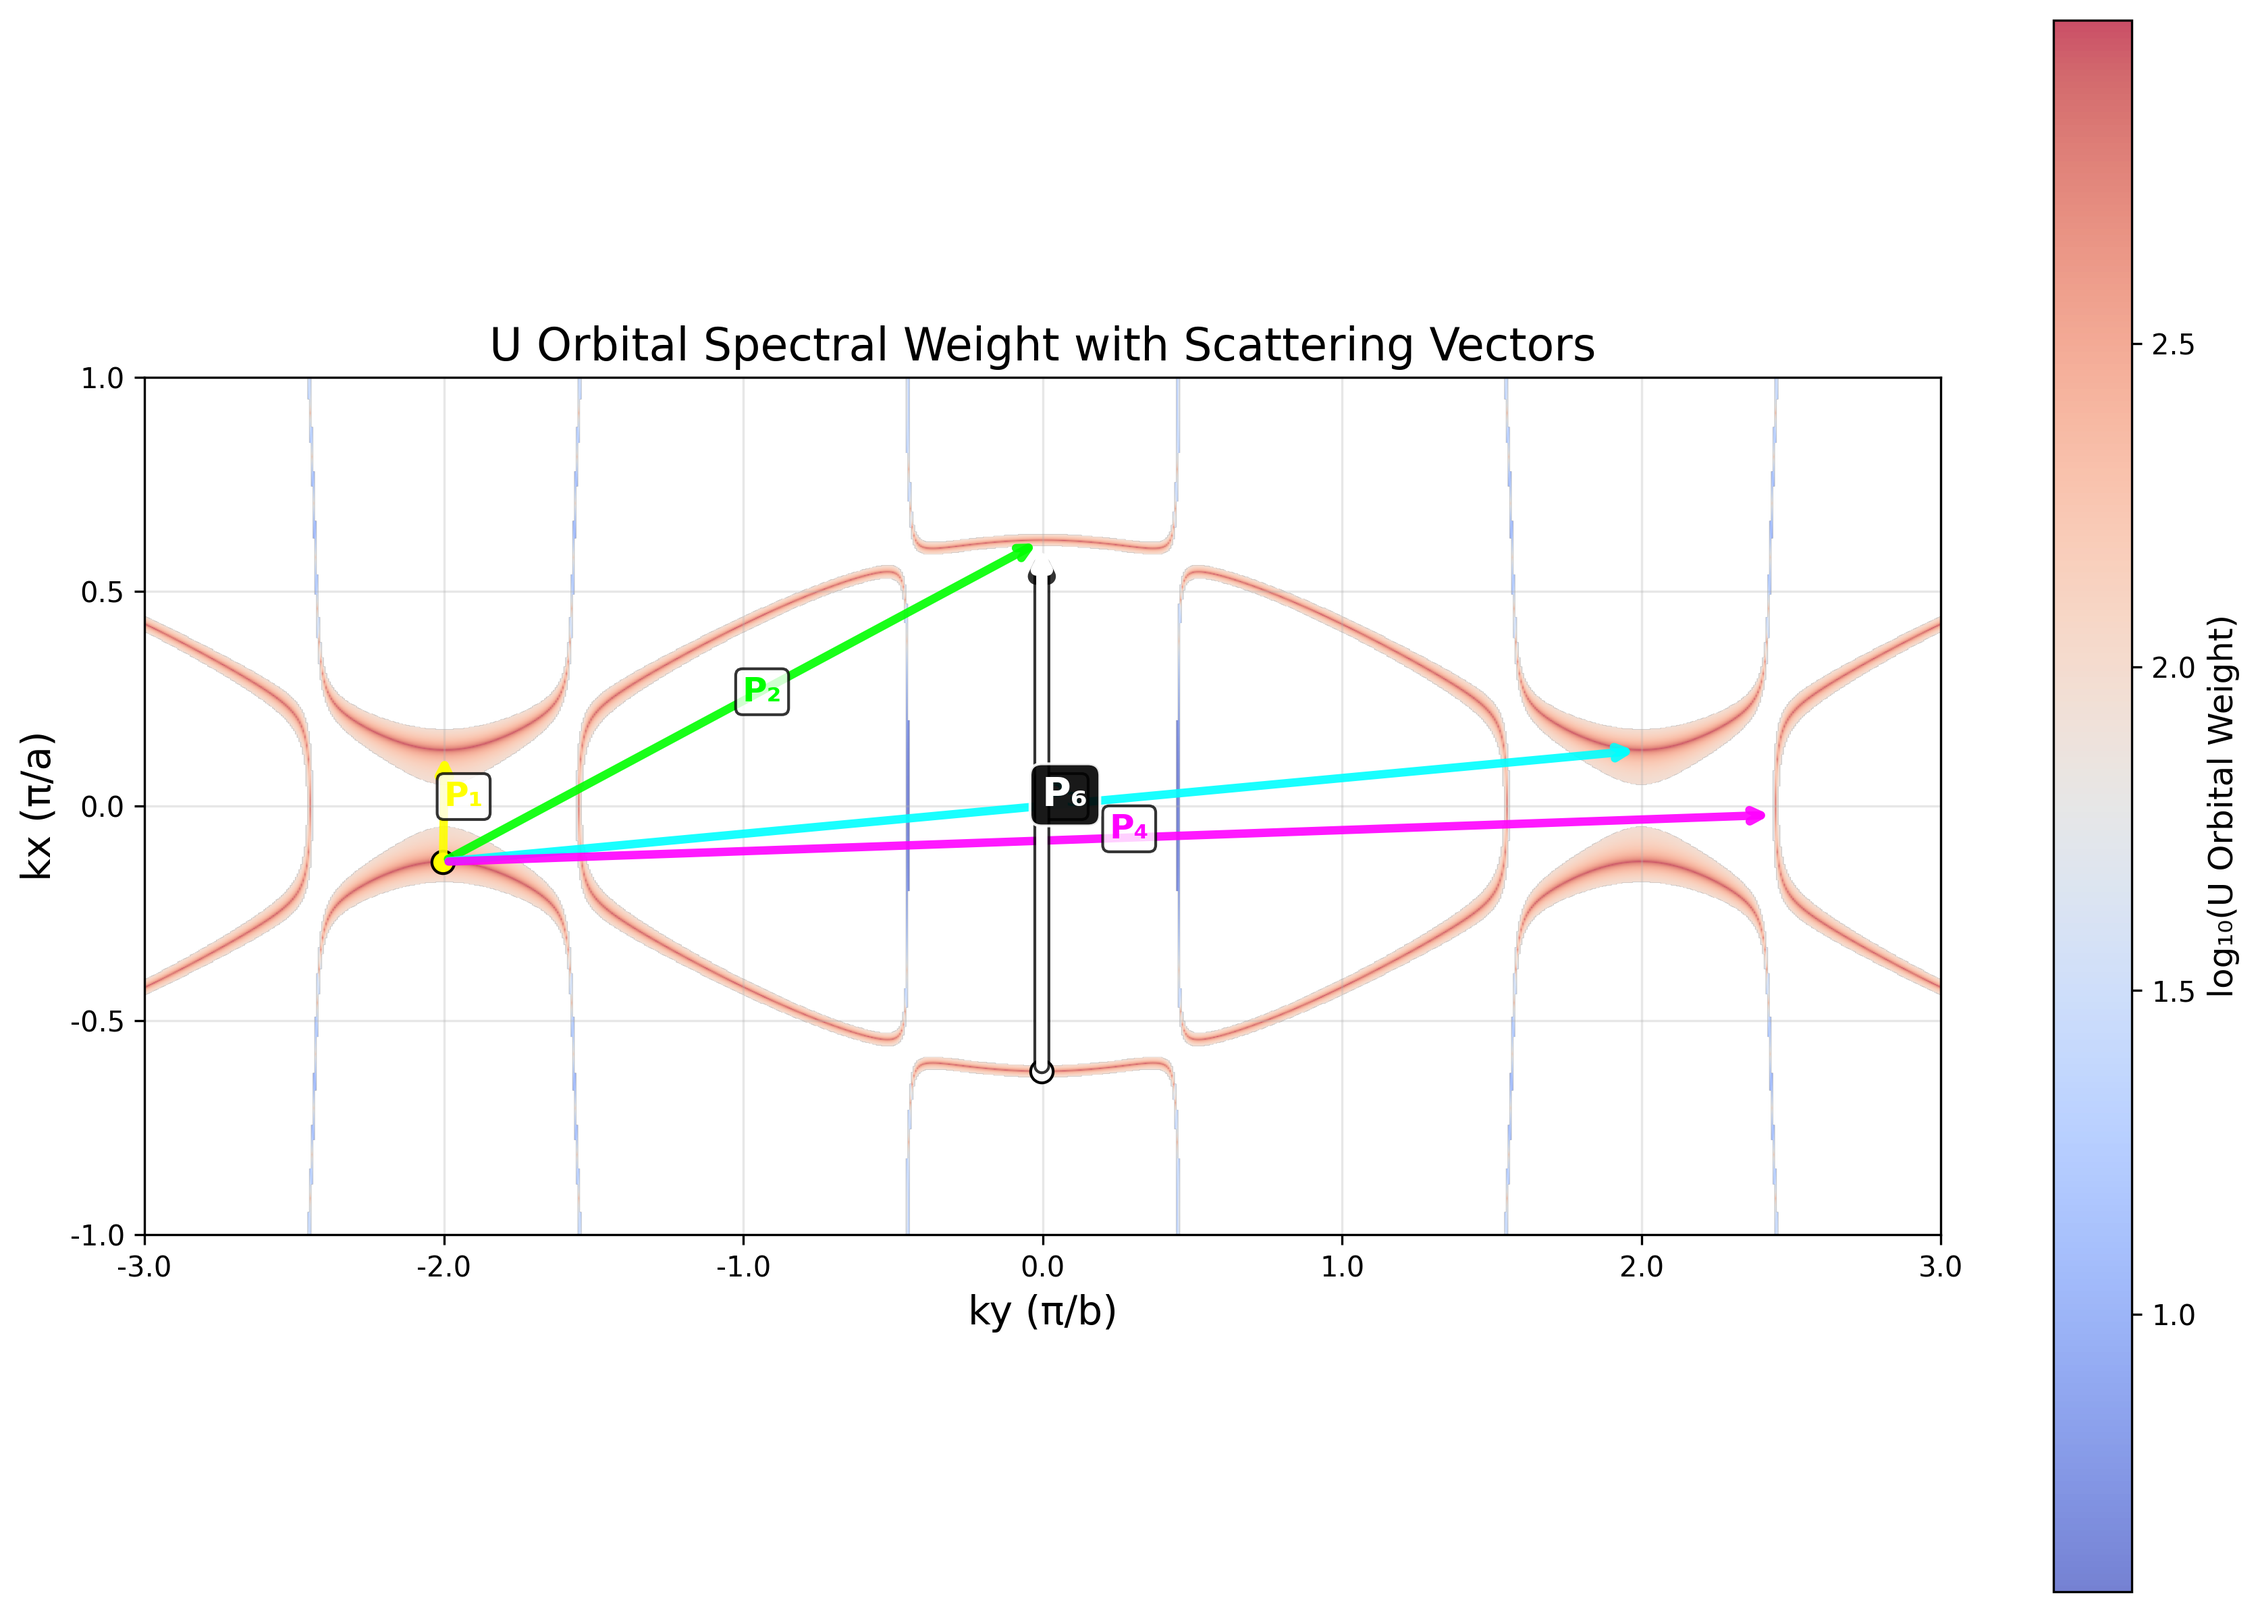
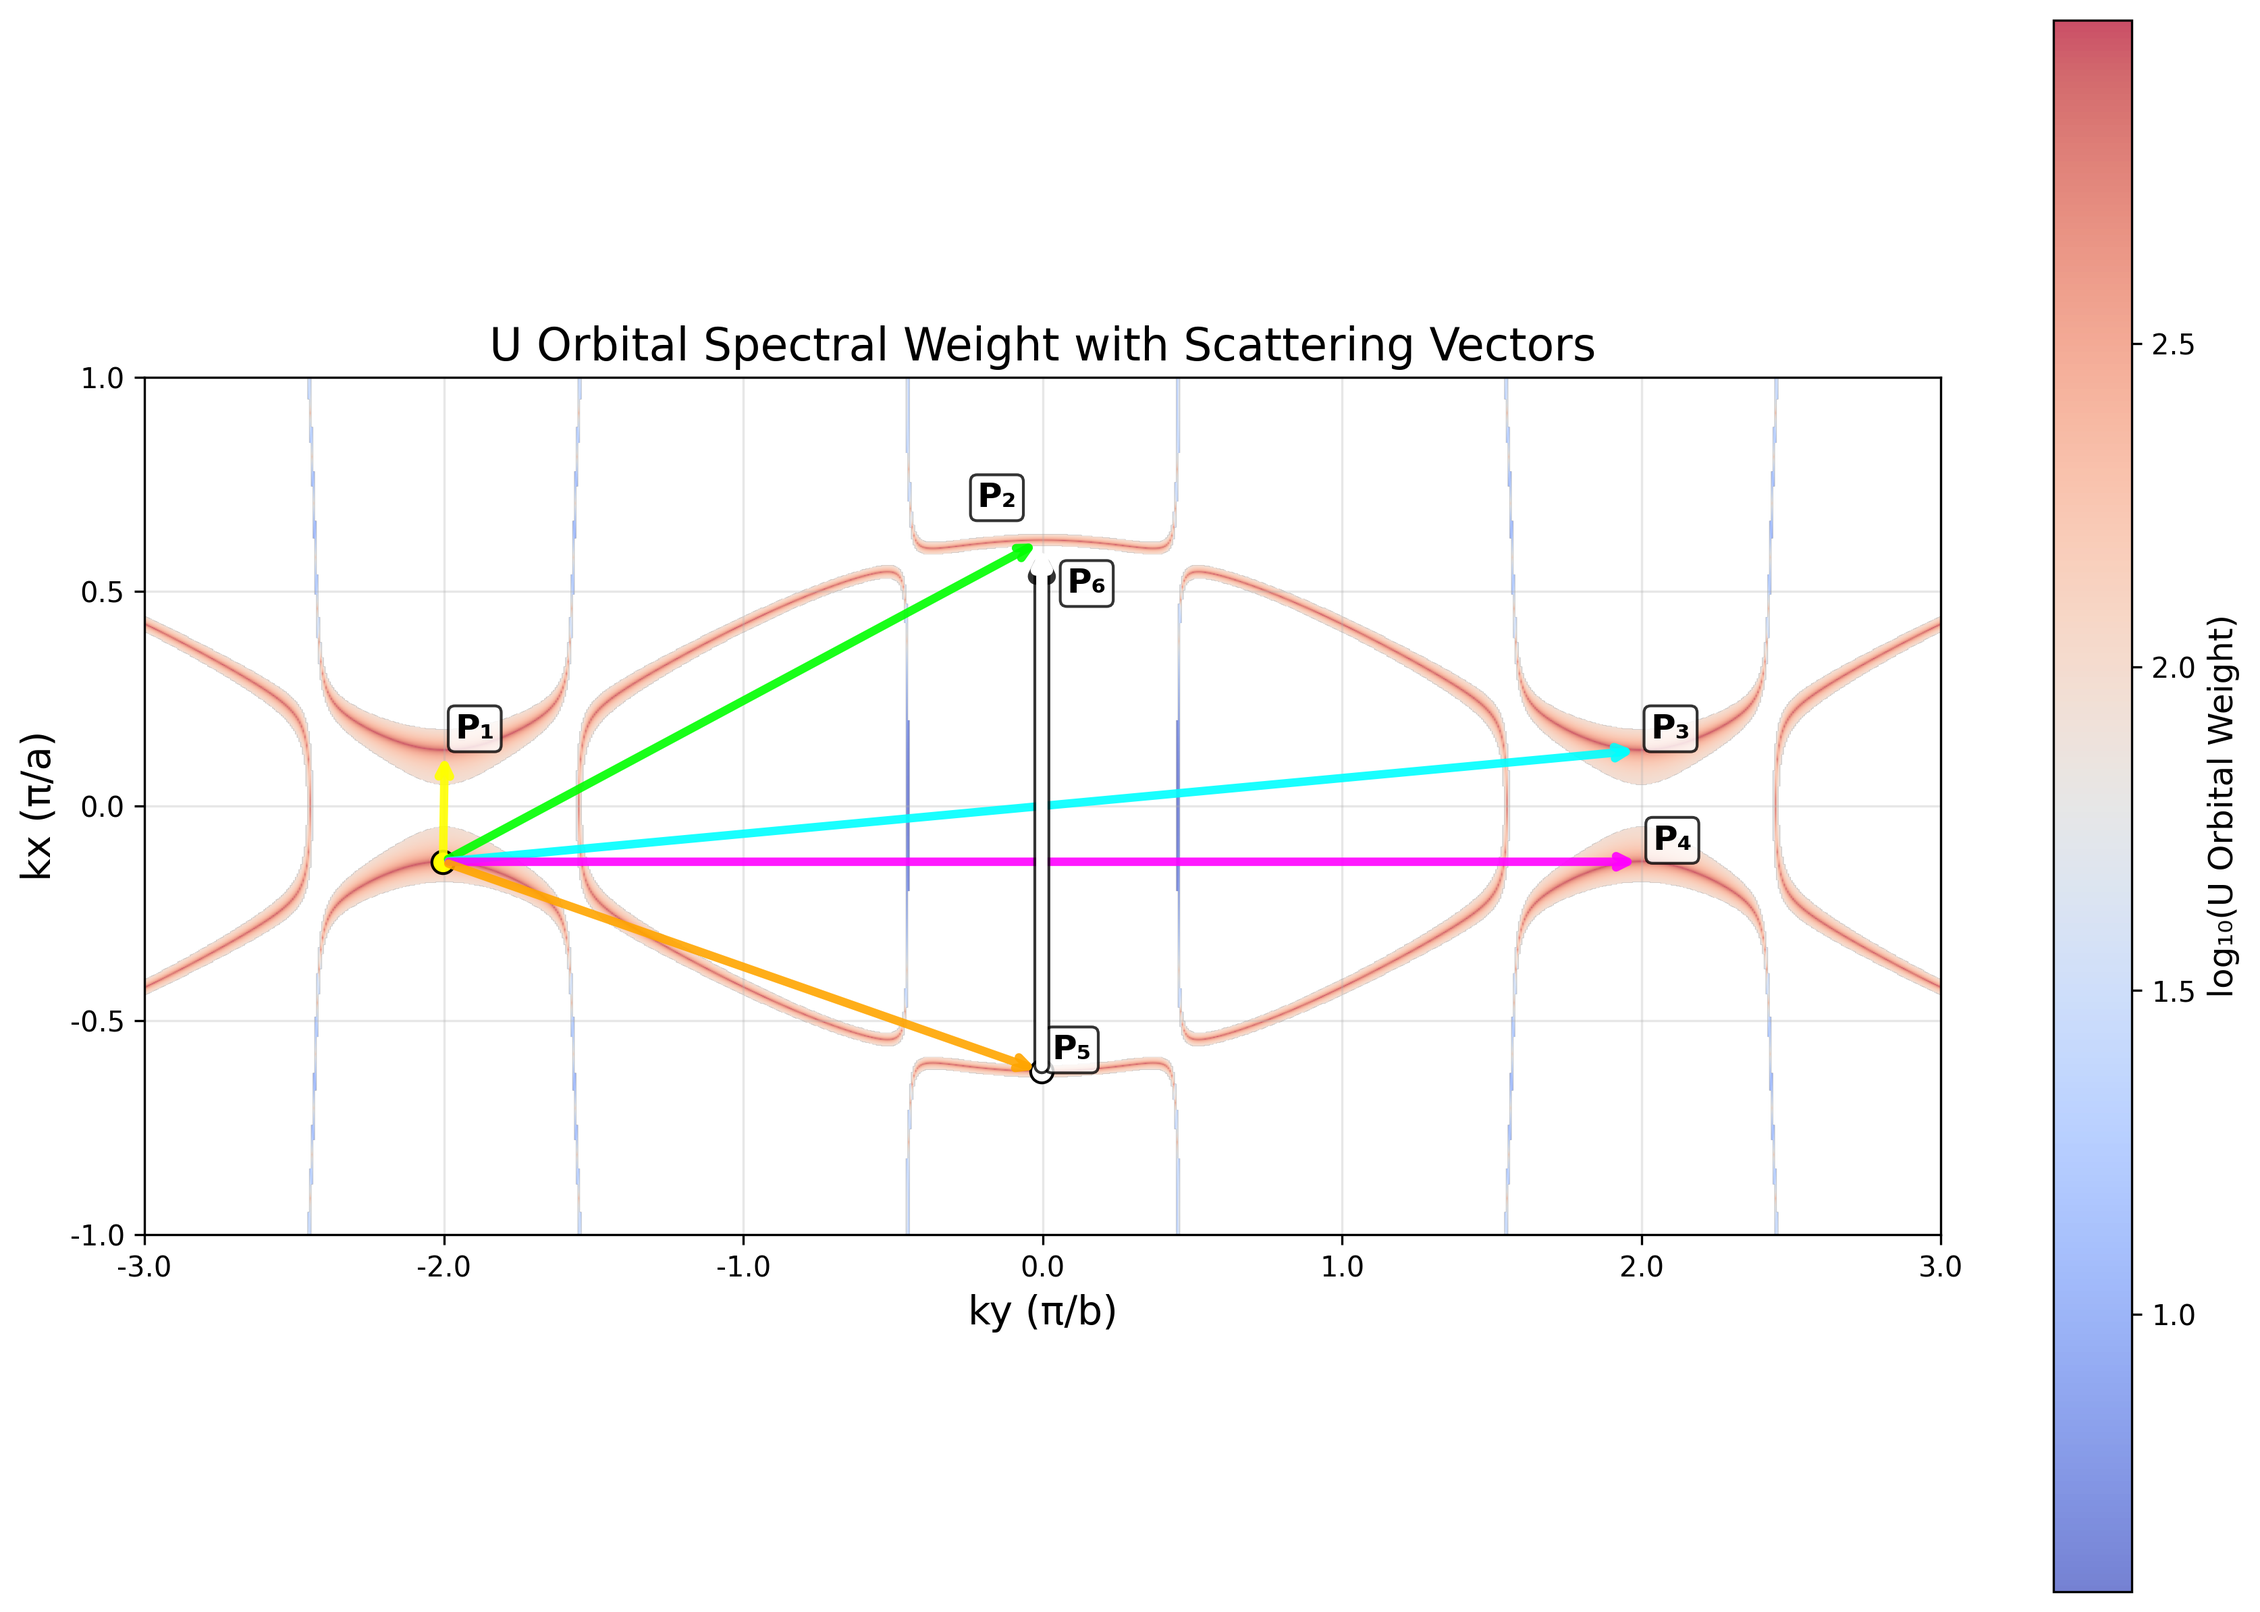
Improved vector labelling for spectral maxima

diff --git a/spectral_weights.py b/spectral_weights.py
@@ -349,21 +349,19 @@ def test_fermi_surface_and_spectral_weights():
             if best_3:
                 target_points.append((ky_vals[best_3[0]], kx_vals[best_3[1]]))
             
-            # P4: Target in far positive ky region, negative kx
+            # P4: Same as P3 but go to same kx point as origin (symmetric scattering)
             ky_positive_far = np.where((ky_vals > 1.8*np.pi/b) & (ky_vals < 2.8*np.pi/b))[0]
-            kx_negative_selected = kx_negative_indices[-40:-10]  # Not too deep negative
-            best_4 = find_local_maximum(U_linear, ky_positive_far, kx_negative_selected)
+            # Find point at same kx as origin but in positive ky region
+            origin_kx_vicinity = np.where(abs(kx_vals - origin_point[1]) < 0.1*np.pi/a)[0]
+            best_4 = find_local_maximum(U_linear, ky_positive_far, origin_kx_vicinity)
             if best_4:
                 target_points.append((ky_vals[best_4[0]], kx_vals[best_4[1]]))
+            else:
+                # Fallback: use exact same kx as origin
+                target_points.append((2.0*np.pi/b, origin_point[1]))
             
-            # P5: Target in wrap-around region (far negative ky, representing periodicity)
-            ky_negative_far = np.where(ky_vals < -2.7*np.pi/b)[0]
-            if len(ky_negative_far) > 0:
-                kx_mixed = np.concatenate([kx_negative_indices[-20:], kx_positive_near[:10]])
-                best_5 = find_local_maximum(U_linear, ky_negative_far, kx_mixed)
-                if best_5:
-                    target_points.append((ky_vals[best_5[0]], kx_vals[best_5[1]]))
-            
+            # P5: Connect first origin to second origin (inter-origin connection)
+            target_points.append(origin_2_point)
             # P6: From origin 2 to same point as P2 (demonstrating Fermi surface nesting)
             target_6_point = target_points[1] if len(target_points) > 1 else (0, 0.5*np.pi/a)
             
@@ -385,12 +383,18 @@ def test_fermi_surface_and_spectral_weights():
                     ax_vectors.annotate('', xy=target, xytext=origin_point,
                                       arrowprops=dict(arrowstyle='->', color=vector_colors[i], 
                                                     lw=3, alpha=0.9))
-                    # Label the vector
-                    mid_x = (origin_point[0] + target[0]) / 2
-                    mid_y = (origin_point[1] + target[1]) / 2
-                    ax_vectors.text(mid_x, mid_y, vector_labels[i], 
-                                  color=vector_colors[i], fontsize=12, fontweight='bold',
-                                  bbox=dict(boxstyle='round,pad=0.2', facecolor='white', alpha=0.8))
+                    # Label the vector near the end but offset to not hide arrow tip
+                    # Use different offsets for each vector to avoid overlaps
+                    if i == 1:  # P2 - offset more to avoid overlap with P6
+                        offset_x = -0.15 * np.pi / b  # Negative offset for P2
+                        offset_y = 0.1 * np.pi / a
+                    else:
+                        offset_x = 0.1 * np.pi / b  # Standard offset for others
+                        offset_y = 0.05 * np.pi / a
+                    ax_vectors.text(target[0] + offset_x, target[1] + offset_y, vector_labels[i], 
+                                  color='black', fontsize=12, fontweight='bold',
+                                  bbox=dict(boxstyle='round,pad=0.2', facecolor='white', alpha=0.8),
+                                  ha='center', va='center')
             
             # Plot vector 6 (from second origin) - make it white with black outline for visibility
             ax_vectors.annotate('', xy=target_6_point, xytext=origin_2_point,
@@ -405,9 +409,13 @@ def test_fermi_surface_and_spectral_weights():
                                             lw=4, alpha=1.0, zorder=2))
             mid_x_6 = (origin_2_point[0] + target_6_point[0]) / 2
             mid_y_6 = (origin_2_point[1] + target_6_point[1]) / 2
-            ax_vectors.text(mid_x_6, mid_y_6, 'P₆', 
-                          color='white', fontsize=14, fontweight='bold',
-                          bbox=dict(boxstyle='round,pad=0.3', facecolor='black', alpha=0.9, edgecolor='white'))
+            # Position P6 label near endpoint but offset opposite to P2 to avoid overlap
+            offset_x_6 = 0.15 * np.pi / b  # Positive offset for P6 (opposite to P2)
+            offset_y_6 = -0.1 * np.pi / a   # Negative offset in kx direction
+            ax_vectors.text(target_6_point[0] + offset_x_6, target_6_point[1] + offset_y_6, 'P₆', 
+                          color='black', fontsize=12, fontweight='bold',
+                          bbox=dict(boxstyle='round,pad=0.2', facecolor='white', alpha=0.8),
+                          ha='center', va='center')
             
             # Mark origin points
             ax_vectors.plot(origin_point[0], origin_point[1], 'ko', markersize=8, markerfacecolor='yellow', markeredgecolor='black')
@@ -455,6 +463,17 @@ def test_fermi_surface_and_spectral_weights():
             vector_6_kx = target_6_point[1] - origin_2_point[1]
             vector_6_ky = target_6_point[0] - origin_2_point[0]
             print(f"P6: ({vector_6_kx/(np.pi/a):.3f}π/a, {vector_6_ky/(np.pi/b):.3f}π/b)")
+            
+            # Also print in 2π/a and 2π/b units
+            print(f"\nScattering Vectors in (kx, ky) format using 2π units:")
+            for i, target in enumerate(target_points[:5]):
+                if target:
+                    vector_kx = target[1] - origin_point[1]  # kx component
+                    vector_ky = target[0] - origin_point[0]  # ky component
+                    print(f"P{i+1}: ({vector_kx/(2*np.pi/a):.3f}, {vector_ky/(2*np.pi/b):.3f})")
+            
+            # Vector 6 from different origin in 2π units
+            print(f"P6: ({vector_6_kx/(2*np.pi/a):.3f}, {vector_6_ky/(2*np.pi/b):.3f})")
         
         print(f"Te orbital weight range: {np.min(Te_weight):.6f} to {np.max(Te_weight):.6f}")
         print(f"U orbital weight range: {np.min(U_weight):.6f} to {np.max(U_weight):.6f}")
